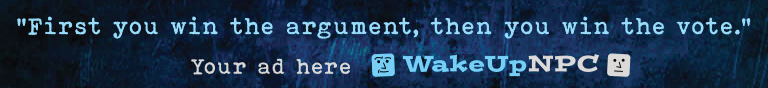
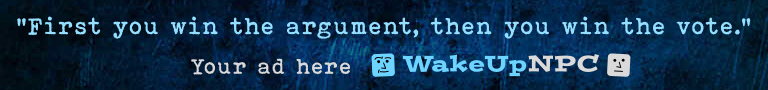
deploy good ads

diff --git a/content/ads/ad-horizontal-1.md b/content/ads/ad-horizontal-1.md
@@ -6,7 +6,7 @@ size: horizontal
 advertiser: 'Premium Advertiser 1'
 campaign: 'Big Campaign'
 link: 'https://wakeupnpc.com/advertising'
-image: '/ads/768x90-ad-1c.png'
+image: '/ads/768x90-ad-1.png'
 frequency: 50
 active: true
 ---

diff --git a/content/ads/ad-horizontal-2.md b/content/ads/ad-horizontal-2.md
@@ -6,7 +6,7 @@ size: horizontal
 advertiser: 'Premium Advertiser 2'
 campaign: 'Big Campaign'
 link: 'https://wakeupnpc.com/advertising'
-image: '/ads/768x90-ad-2c.png'
+image: '/ads/768x90-ad-2.png'
 frequency: 50
 active: true
 ---
